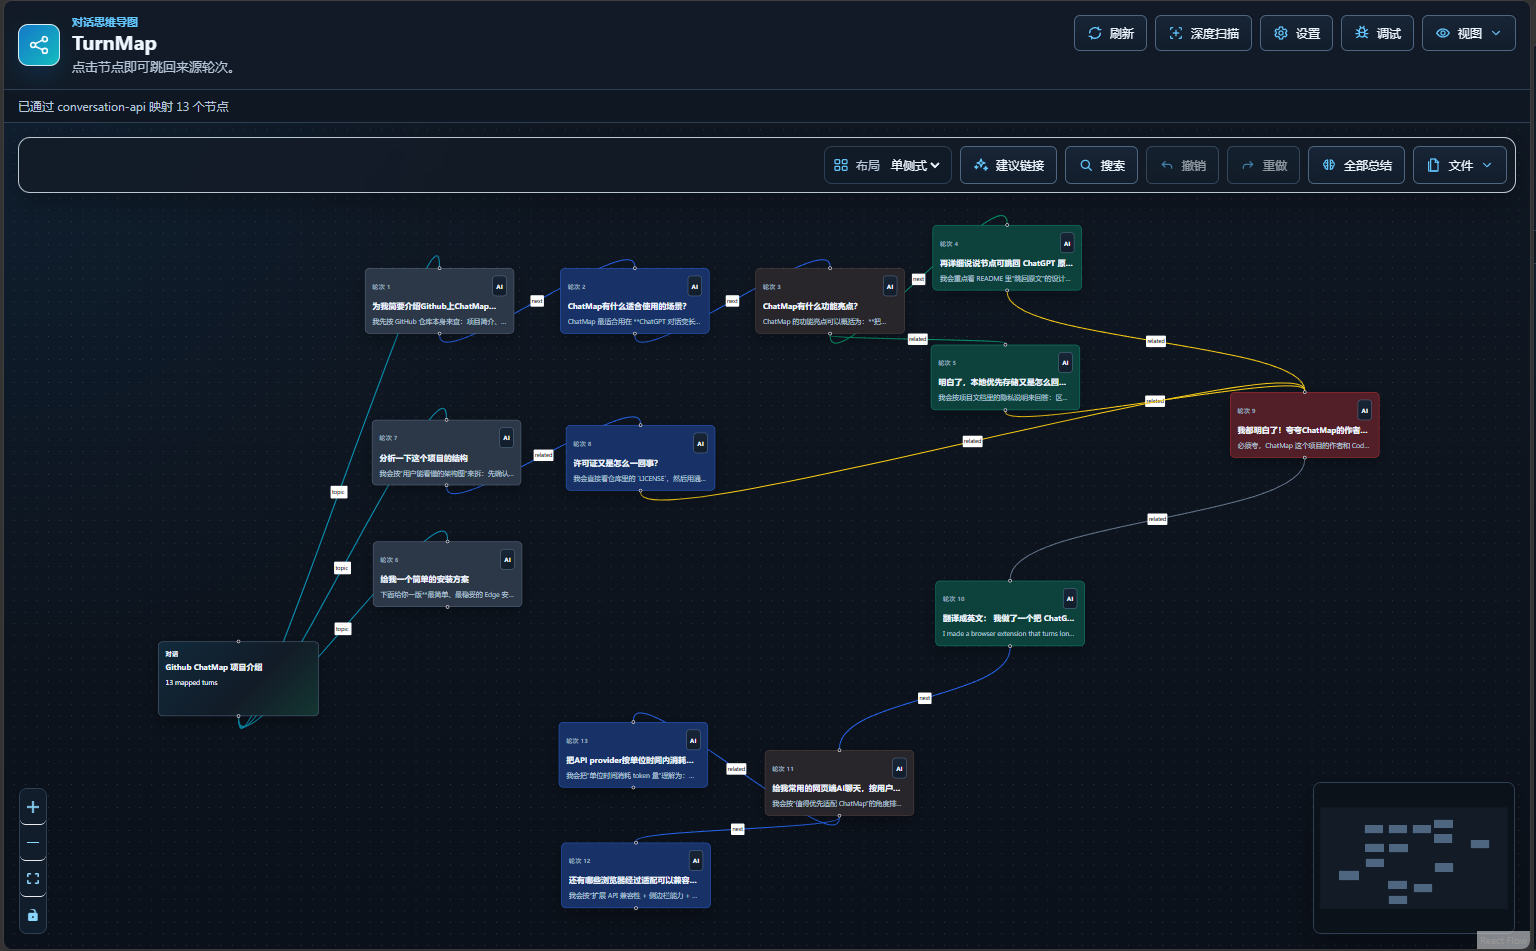
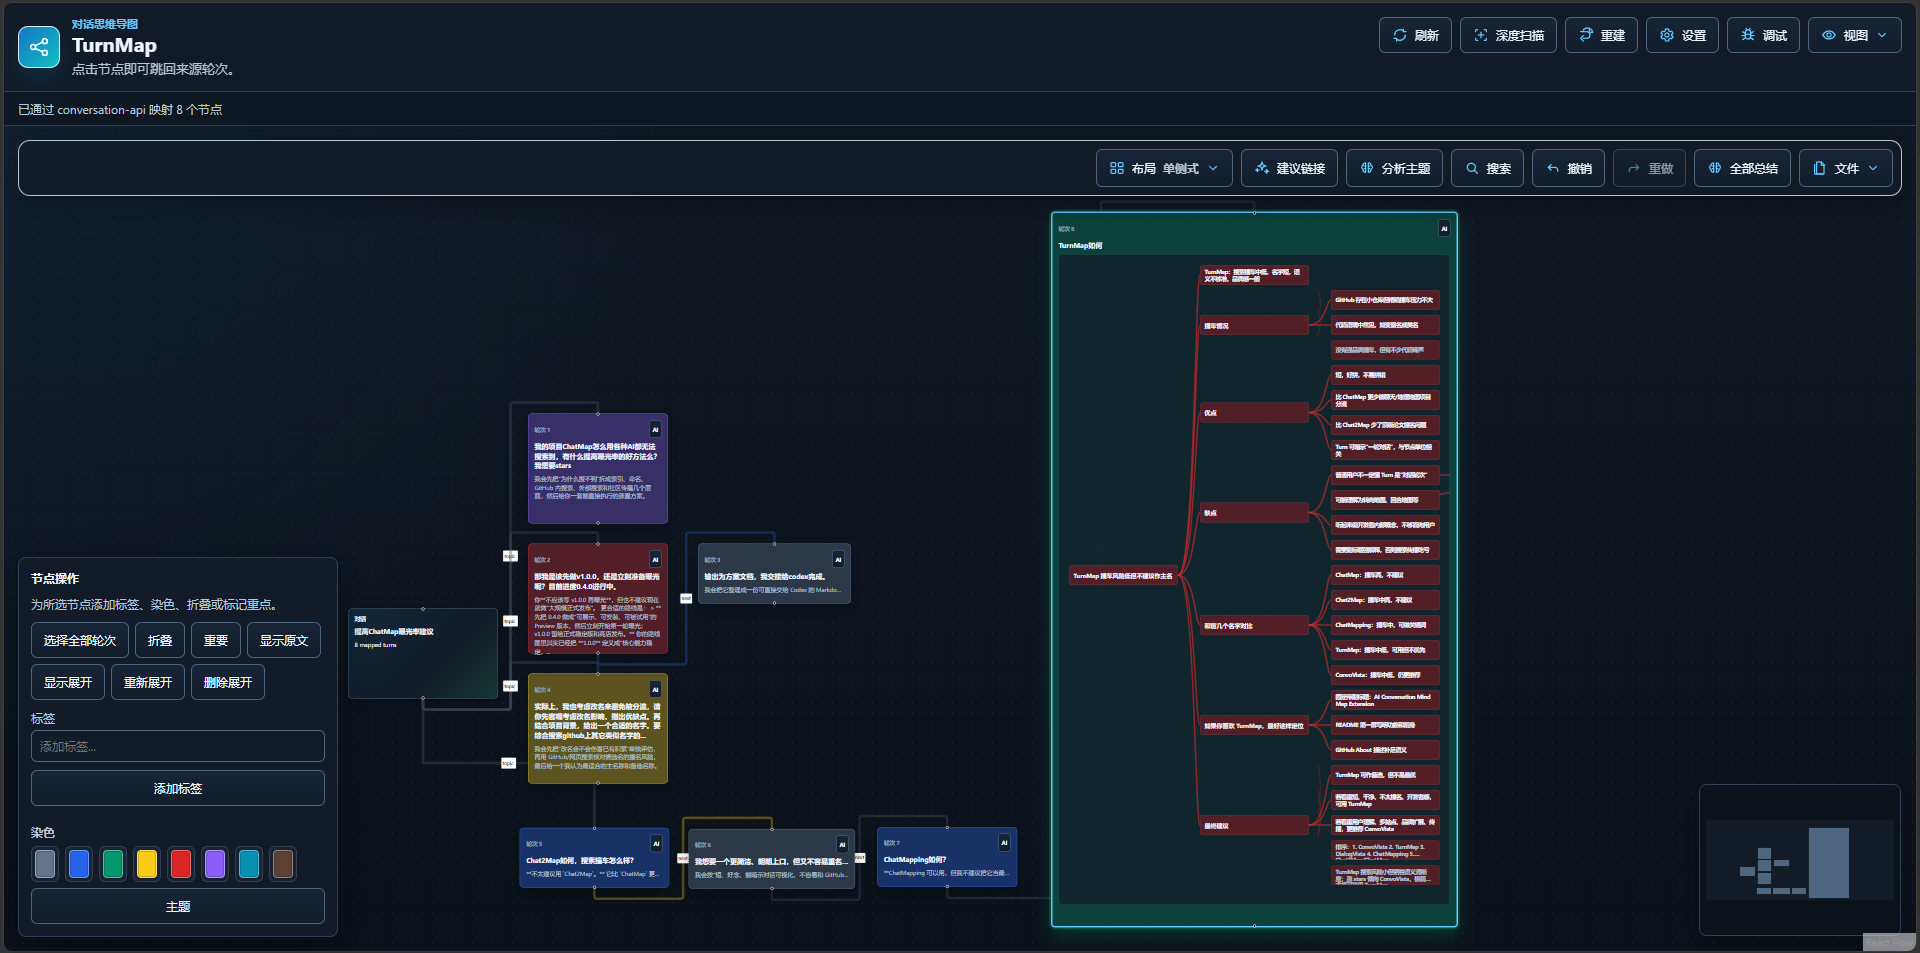
Refresh README visual tour

Changed region(s): [[0.0, 0.0, 1.0, 1.0], [0.6875, 0.0, 1.0, 0.061]]

diff --git a/README.md b/README.md
@@ -8,7 +8,9 @@ TurnMap is an Edge-first browser extension that maps the current AI conversation
 
 > Status: early preview. TurnMap is not yet published to Edge Add-ons or Chrome Web Store. Install it manually from source or from a GitHub Release package.
 
-![TurnMap preview](docs/assets/github-social-preview.png)
+![TurnMap turns a long web AI conversation into an editable mind map](docs/assets/github-social-preview.png)
+
+TurnMap keeps the original chat close by while giving you a map you can scan, edit, color, expand, and export.
 
 ## What It Is For
 
@@ -22,27 +24,45 @@ It currently maps the active conversation on supported AI websites. Cross-conver
 
 ## Highlights
 
-- **Conversation map**: turns the current AI conversation into a node map.
-- **Supported websites**: ChatGPT, Gemini, Claude.ai, DeepSeek, Kimi, Doubao, Qwen, Google AI Studio, Perplexity, Grok, GLM / Z.ai / Zhipu Qingyan, Mistral Le Chat, and Arena / LMArena.
-- **Jump to source**: return from a map node to the original source turn.
-- **Editable graph**: edit titles, summaries, tags, statuses, notes, hidden nodes, and links.
-- **Node resizing**: drag the left, right, and bottom resize handles, or the lower-left/lower-right corners, to save custom node proportions.
-- **AI answer expansion**: with an API key configured, turn one assistant answer into a compact title-only mini-map inside the original node; failed or invalid AI output does not change the node.
-- **Custom node appearance**: color nodes, collapse long content, mark important nodes, and tune color rendering with gradient or background modes.
-- **Topic groups and batch editing**: collapse selected turns into a restorable topic node, batch add/remove tags, and batch edit selected link type/color/importance.
-- **Semantic links**: link colors are clearer and consistent with node color presets; link weights affect line thickness/opacity, and important links can be emphasized more strongly.
-- **Connection style preference**: choose Curved or Angled normal-node links in Interface settings. Mini-map links are intentionally unchanged.
-- **Graph hygiene**: imports, exports, layout changes, and topic groups run local health checks that repair safe defaults, drop invalid dangling/proxy edges, and write concise status/task-log entries.
-- **AI assist preview**: summarize nodes, suggest high-confidence semantic links, and generate custom UI translations, with provider compatibility still being improved.
-- **Topic Analysis MVP**: locally preclassify high-signal candidate links from node metadata before optional AI review.
-- **More appearance controls**: light, dark, eye-care, and browser-following themes, plus layout and rendering defaults.
-- **Multiple views**: Side Panel, Full Page, and Float.
-- **Settings Page**: manage AI, interface defaults, theme, language, launcher, Float, and update preferences outside the map workspace.
-- **Page launcher**: a small right-side launcher on supported AI pages. Left-click opens TurnMap; right-click opens settings.
-- **Cleaner tab organization**: related display options are grouped so Side Panel, Full Page, Float, and border/display controls do not crowd the map workspace.
-- **Multiple layouts**: Single-side, Radial, Matrix, and Two-sided.
-- **Import/export**: TurnMap JSON, Obsidian Canvas, OPML, Obsidian vault Markdown, Markdown, SVG, and PNG. Prefer TurnMap JSON when you need complete save/restore, including answer expansions, current display modes, topic groups, link weights, and graph metadata.
-- **Local-first storage**: graph state is saved per conversation in the browser profile.
+- **Long conversation map**: turn a sprawling web AI conversation into a node map you can actually scan.
+- **Jump back to source**: right-click node text to return to the original answer in the source website.
+- **Answer mini mind maps**: expand one long assistant answer into a compact, title-only map inside the original node.
+- **Topic organization**: collapse selected turns into restorable topic groups and review local Topic Analysis candidates.
+- **Editable knowledge graph**: edit titles, summaries, tags, statuses, notes, hidden nodes, and relationship links.
+- **Visual structure controls**: resize nodes, color nodes, mark important nodes, fold long content, and tune gradient or solid color rendering.
+- **Semantic links and weights**: distinguish relationship types with consistent colors and make stronger links visually heavier.
+- **Multiple layouts and views**: use Single-side, Radial, Matrix, or Two-sided layouts in Side Panel, Full Page, or Float.
+- **Multi-site web AI support**: map conversations from ChatGPT, Gemini, Claude.ai, DeepSeek, Kimi, Doubao, Qwen, Perplexity, Grok, GLM / Z.ai, Mistral, Arena / LMArena, and more.
+- **Export and restore**: export TurnMap JSON, Obsidian Canvas, OPML, Obsidian vault Markdown, Markdown, SVG, and PNG. Use TurnMap JSON for the most complete editable backup.
+- **Local-first storage**: keep graph state, UI preferences, and generated language packs in the local browser profile.
+
+## Visual Tour
+
+### Map Long Web AI Conversations
+
+TurnMap turns a single long web AI thread into a navigable graph. The map keeps conversation order, topic structure, source jumping, and your own edits in one workspace.
+
+![A long AI conversation mapped into TurnMap with node actions and an expanded answer mini mind map](docs/assets/github-social-preview.png)
+
+### Expand Answers Into Mini Mind Maps
+
+Dense answers can become compact mini maps inside the original node. This is useful for research summaries, naming debates, step-by-step plans, comparison tables, or any answer that is too long to stay readable as plain chat text.
+
+![Exported TurnMap PNG showing colored conversation nodes and an expanded answer mini mind map](docs/assets/提高ChatMap曝光率建议.turnmap.png)
+
+### Export What You Build
+
+TurnMap can export both editable backups and shareable visual files. For long-term recovery, choose TurnMap JSON; for sharing, use SVG or PNG; for knowledge workflows, use Obsidian Canvas, OPML, Markdown, or an Obsidian vault bundle.
+
+<p>
+  <img src="docs/assets/导出页截图.png" alt="TurnMap Files menu with JSON, Canvas, OPML, Obsidian Vault, SVG, PNG, and Markdown exports" width="260" />
+</p>
+
+### Tune The Workspace
+
+The settings page keeps provider setup, interface defaults, themes, language packs, link style, node color rendering, launcher behavior, and update preferences away from the map canvas.
+
+![TurnMap settings page with AI provider, interface, language, link style, and node color rendering controls](docs/assets/设置截图页.png)
 
 ## Current Views
 